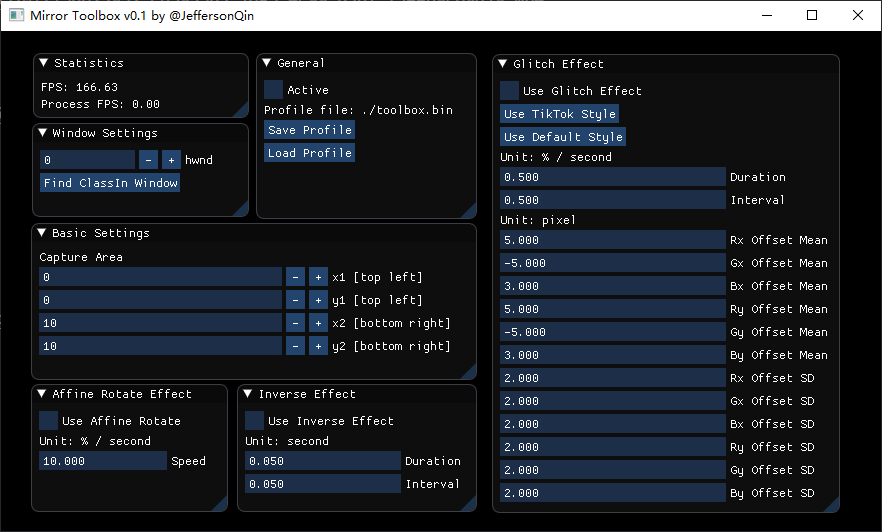
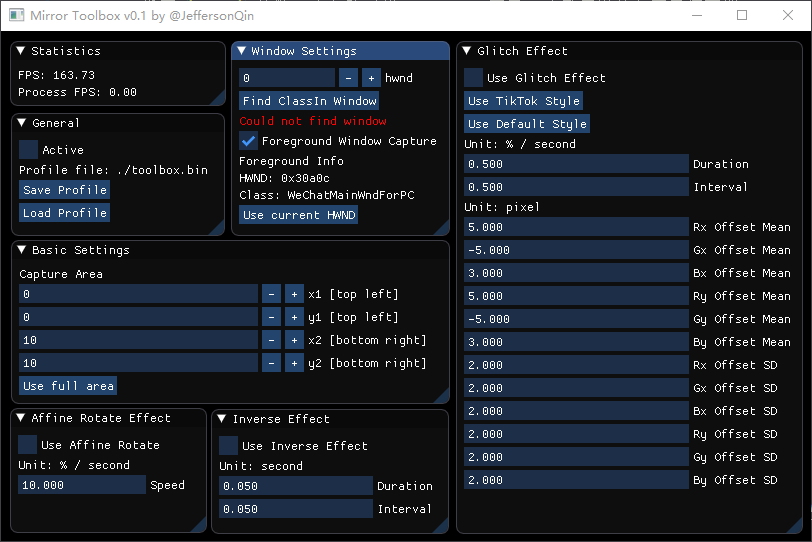
doc: update readme

diff --git a/README.md b/README.md
@@ -14,7 +14,7 @@ flowchart LR
 注：对于 ClassIn 之外的软件亦可运行，后文会有描述。
 
 * CLI: 指定 `HWND` 参数
-* GUI: 指定 `HWND` 参数，不自动寻找 ClassIn 窗口
+* GUI: 指定 `HWND` 参数，不自动寻找 ClassIn 窗口，或者使用前台窗口捕获器。
 
 ## 基本功能
 
@@ -55,6 +55,8 @@ https://user-images.githubusercontent.com/30655701/158623903-808892bf-6281-4cfb-
 GUI 还编写了保存 / 加载配置的功能。
 
 注意：如果不想要捕获 ClassIn，而是想捕获其他窗口，只需要自己指定窗口的 **十进制** HWND 即可。
+
+Update: 增加了前台窗体捕获功能。开启 `Foreground Window Capture` 后，捕获好窗口后点击 `Use Current HWND` 即可设置。
 
 ## CLI 使用
 
